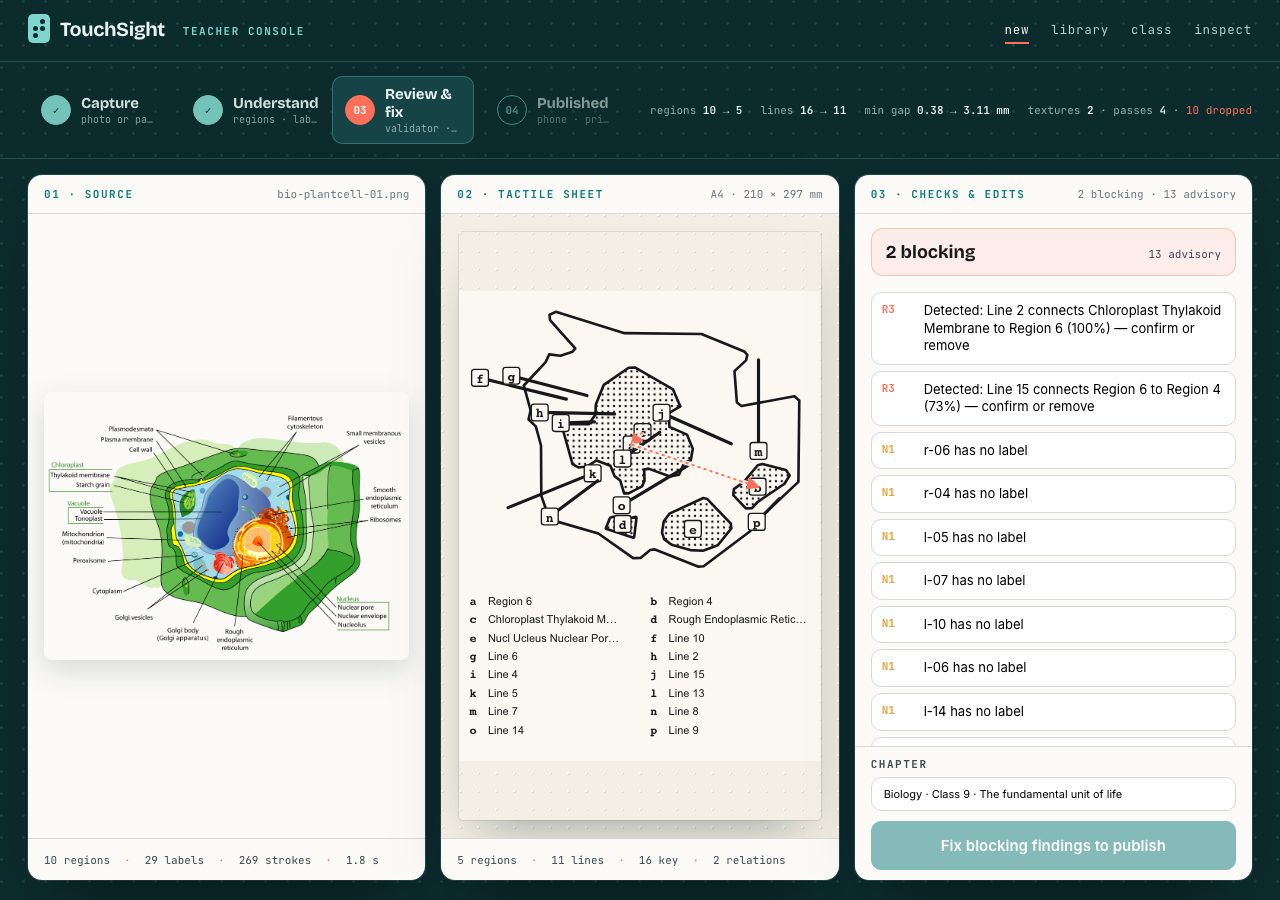
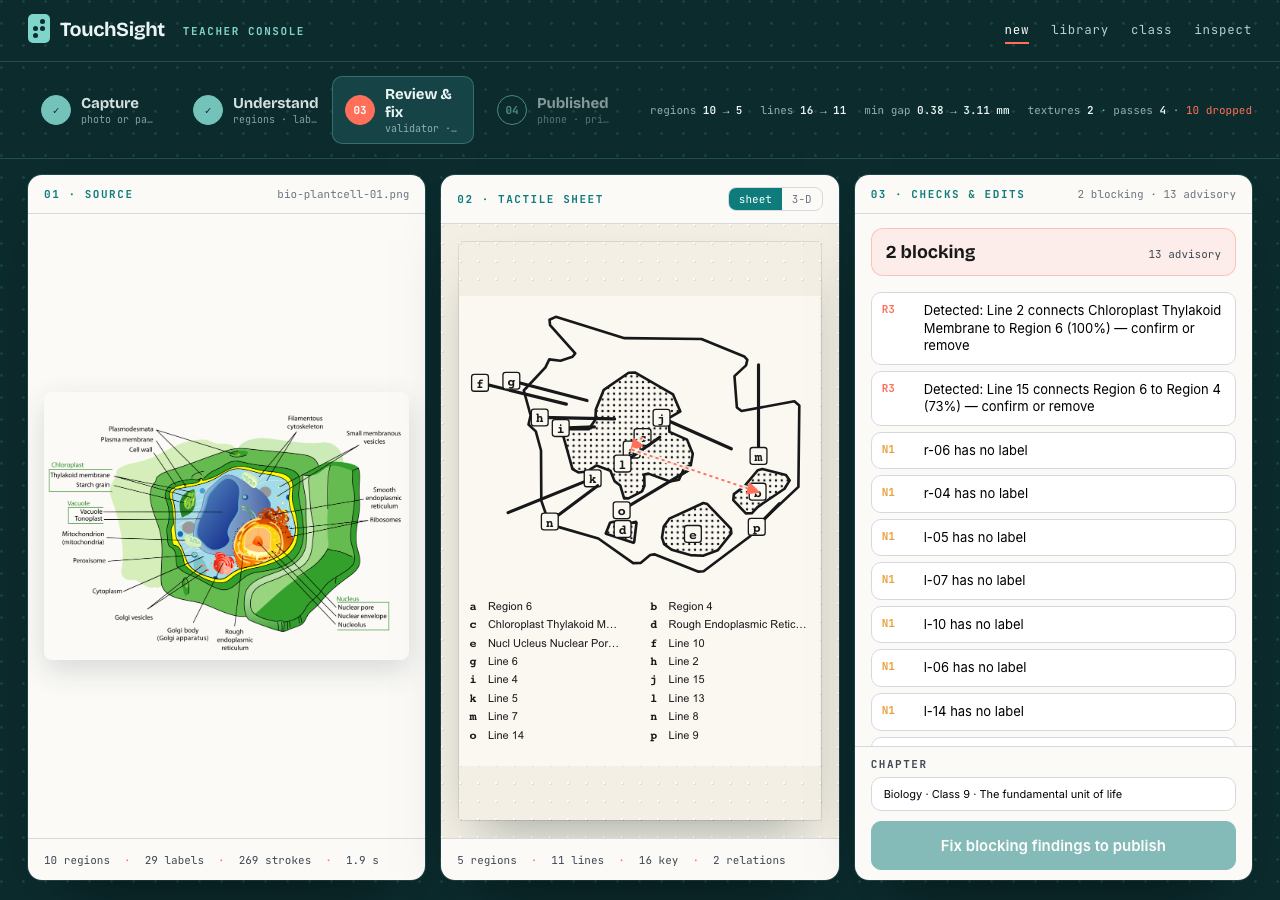
Relief viewer from the real STL

diff --git a/app/src/components/ReliefViewer.tsx b/app/src/components/ReliefViewer.tsx
@@ -1,0 +1,69 @@
+import { useEffect, useRef, useState } from 'react'
+import type { Tdm } from '../tdm/types'
+import { exportStl } from '../export'
+
+/**
+ * The relief as the printer gets it: the STL the exporter writes, lit from a low angle so dots and ridges throw
+ * shadows, turning slowly until the hand takes over. three.js loads only when this is on screen.
+ */
+export function ReliefViewer({ tdm, braille, className = '', autoRotate = true, caption = true }: { tdm: Tdm; braille?: Record<string, string>; className?: string; autoRotate?: boolean; caption?: boolean }) {
+  const host = useRef<HTMLDivElement>(null)
+  const [facts, setFacts] = useState<string>('')
+  const [ready, setReady] = useState(false)
+
+  useEffect(() => {
+    const el = host.current
+    if (!el) return
+    let alive = true, raf = 0, dispose = () => {}
+    ;(async () => {
+      const [THREE, { STLLoader }, { OrbitControls }] = await Promise.all([import('three'), import('three/examples/jsm/loaders/STLLoader.js'), import('three/examples/jsm/controls/OrbitControls.js')])
+      if (!alive) return
+      const { stl, facts: f } = exportStl(tdm, { braille })
+      const geo = new STLLoader().parse(stl)
+      geo.computeVertexNormals(); geo.computeBoundingBox()
+      const bb = geo.boundingBox!
+      const size = new THREE.Vector3(); bb.getSize(size)
+      const centre = new THREE.Vector3(); bb.getCenter(centre)
+      geo.translate(-centre.x, -centre.y, -bb.min.z)
+
+      const scene = new THREE.Scene()
+      const w = el.clientWidth || 600, h = el.clientHeight || 420
+      const cam = new THREE.PerspectiveCamera(32, w / h, 1, 2000)
+      const span = Math.max(size.x, size.y)
+      cam.position.set(span * 0.55, -span * 0.95, span * 0.9); cam.up.set(0, 0, 1); cam.lookAt(0, 0, 0)
+      const renderer = new THREE.WebGLRenderer({ antialias: true, alpha: true })
+      renderer.setPixelRatio(Math.min(2, window.devicePixelRatio || 1)); renderer.setSize(w, h); renderer.shadowMap.enabled = true
+      el.appendChild(renderer.domElement)
+
+      const mat = new THREE.MeshStandardMaterial({ color: 0xf6f2e9, roughness: 0.85, metalness: 0.0 })
+      const mesh = new THREE.Mesh(geo, mat); mesh.castShadow = true; mesh.receiveShadow = true
+      scene.add(mesh)
+      const table = new THREE.Mesh(new THREE.PlaneGeometry(span * 4, span * 4), new THREE.ShadowMaterial({ opacity: 0.35 }))
+      table.position.z = -0.01; table.receiveShadow = true; scene.add(table)
+      scene.add(new THREE.AmbientLight(0xffffff, 0.55))
+      const key = new THREE.DirectionalLight(0xfff4e0, 1.6); key.position.set(-span, -span * 0.4, span * 0.5); key.castShadow = true
+      key.shadow.mapSize.set(2048, 2048); const sc = key.shadow.camera as unknown as { left: number; right: number; top: number; bottom: number }; sc.left = -span; sc.right = span; sc.top = span; sc.bottom = -span
+      scene.add(key)
+      const rim = new THREE.DirectionalLight(0x7fd4cb, 0.5); rim.position.set(span, span, span * 0.3); scene.add(rim)
+
+      const controls = new OrbitControls(cam, renderer.domElement)
+      controls.enableDamping = true; controls.autoRotate = autoRotate; controls.autoRotateSpeed = 1.2; controls.maxPolarAngle = Math.PI * 0.49; controls.minDistance = span * 0.5; controls.maxDistance = span * 3
+      const onResize = () => { const w2 = el.clientWidth, h2 = el.clientHeight; if (!w2 || !h2) return; cam.aspect = w2 / h2; cam.updateProjectionMatrix(); renderer.setSize(w2, h2) }
+      const ro = new ResizeObserver(onResize); ro.observe(el)
+      const loop = () => { if (!alive) return; controls.update(); renderer.render(scene, cam); raf = requestAnimationFrame(loop) }
+      loop()
+      setFacts(`${f.bbox.w} × ${f.bbox.h} × ${f.bbox.d} mm · ${f.triangles.toLocaleString()} triangles · ${f.keyDomes} braille domes`)
+      setReady(true)
+      ;(window as unknown as { __tsRelief?: unknown }).__tsRelief = { triangles: f.triangles, size: [f.bbox.w, f.bbox.h, f.bbox.d] }
+      dispose = () => { ro.disconnect(); controls.dispose(); renderer.dispose(); geo.dispose(); mat.dispose(); renderer.domElement.remove() }
+    })().catch(() => setFacts('3-D preview unavailable here'))
+    return () => { alive = false; cancelAnimationFrame(raf); dispose() }
+  }, [tdm, braille, autoRotate])
+
+  return (
+    <div className={`rv ${ready ? 'ready' : ''} ${className}`}>
+      <div className="rv-stage" ref={host} />
+      {caption && <div className="rv-cap mono"><span>relief as it prints · drag to turn</span><span>{facts || 'building the relief…'}</span></div>}
+    </div>
+  )
+}

diff --git a/app/src/routes/landing/Landing.tsx b/app/src/routes/landing/Landing.tsx
@@ -5,7 +5,7 @@ import { ValidatorReplay, useDraftFacts } from './ValidatorReplay'
 import { BrailleLine, Count } from './BrailleLine'
 import { useReveal, useActiveSection } from './useReveal'
 import { BrailleCells } from '../../components/BrailleCells'
-import { Relief3D } from './Relief3D'
+import { ReliefViewer } from '../../components/ReliefViewer'
 import type { Tdm } from '../../tdm/types'
 import heartJson from '../../samples/sample-heart.tdm.json'
 import heartPhoto from '../../opener/heart.png'
@@ -34,7 +34,6 @@ function untilt(e: React.PointerEvent<HTMLElement>) { e.currentTarget.style.setP
 export function Landing() {
   const root = useRef<HTMLElement>(null)
   const [active, setActive] = useState('top')
-  const [sheetFocus, setSheetFocus] = useState<string | null>(null)
   const facts = useDraftFacts()
   useReveal(root)
   useActiveSection(IDS, useCallback((id: string) => setActive(id), []))
@@ -71,7 +70,7 @@ export function Landing() {
         </div>
         <div className="ld-hero-sheet" data-rv style={{ ['--d' as string]: '.12s' }}>
           <div className="ld-sheet-label mono"><span>the student app · live</span><span>{heart.regions.length} parts · {textures} textures · {heart.key.length}-entry key</span></div>
-          <TouchSheet tdm={heart} onFocus={setSheetFocus} />
+          <TouchSheet tdm={heart} />
         </div>
       </section>
 
@@ -92,7 +91,7 @@ export function Landing() {
             <li><b>validate</b><span>{facts.findings.length} findings → 0</span></li>
             <li><b>teacher</b><span>confirms · publishes</span></li>
           </ol>
-          <figure className="ld-cmp relief" data-rv style={{ ['--d' as string]: '.18s' }}><Relief3D tdm={heart} highlight={sheetFocus ? [sheetFocus] : []} /><figcaption><span className="mono">after</span><b>The tactile relief</b><span className="mono">{heart.regions.length} regions · {textures} textures · braille key · A4 · prints as STL</span></figcaption></figure>
+          <figure className="ld-cmp relief" data-rv style={{ ['--d' as string]: '.18s' }}><div className="ld-rv"><ReliefViewer tdm={heart} caption={false} /></div><figcaption><span className="mono">after</span><b>The tactile relief, as it prints</b><span className="mono">{heart.regions.length} regions · {textures} textures · braille domes · drag to turn</span></figcaption></figure>
         </div>
       </section>
 

diff --git a/app/src/routes/teacher/Workbench.tsx b/app/src/routes/teacher/Workbench.tsx
@@ -8,6 +8,7 @@ import { TdmCanvas, TEXTURE_LABEL } from '../../components/TdmCanvas'
 import { TEXTURES, RELATION_KINDS, type Tdm, type ValidationFinding, type TdmRelation } from '../../tdm/types'
 import { getDiagram, saveDiagram, saveImage, getImage } from '../../store/db'
 import { ExportPanel } from '../../components/ExportPanel'
+import { ReliefViewer } from '../../components/ReliefViewer'
 import { area } from '../../tdm/geometry'
 import { classroom, teacherRoom } from '../../class/classroom'
 
@@ -31,6 +32,7 @@ export function Workbench() {
   const [imgUrl, setImgUrl] = useState<string | null>(null)
   const [found, setFound] = useState<{ regions: number; labels: number; strokes: number; ms: number } | null>(null)
   const [phones, setPhones] = useState(0)
+  const [view3d, setView3d] = useState(false)
   useEffect(() => { if (step !== 'published') return; const t = setInterval(() => setPhones(classroom.phones), 600); return () => clearInterval(t) }, [step])
   const fileRef = useRef<HTMLInputElement>(null)
 
@@ -160,9 +162,9 @@ export function Workbench() {
 
         {/* 02 · sheet */}
         <section className="wb-pane wb-sheet">
-          <header className="wb-pane-h"><span className="kicker">02 · Tactile sheet</span><span className="mono">A4 · 210 × 297 mm</span></header>
-          <div className="wb-pane-b wb-canvas-body">
-            {tdm && step !== 'understand' ? (
+          <header className="wb-pane-h"><span className="kicker">02 · {view3d ? 'Relief' : 'Tactile sheet'}</span>{tdm && step !== 'understand' ? <span className="wb-seg mono"><button className={!view3d ? 'on' : ''} onClick={() => setView3d(false)}>sheet</button><button className={view3d ? 'on' : ''} onClick={() => setView3d(true)}>3-D</button></span> : <span className="mono">A4 · 210 × 297 mm</span>}</header>
+          <div className={`wb-pane-b wb-canvas-body ${view3d ? 'relief' : ''}`}>
+            {tdm && step !== 'understand' && view3d ? <ReliefViewer tdm={tdm} /> : tdm && step !== 'understand' ? (
               <TdmCanvas tdm={tdm} selected={selected} highlight={highlight} onSelect={onPick} showKey showRelations paper="#fbf8f1" marker={blockingSel} />
             ) : (
               <div className="wb-ghost-sheet"><span className="mono">{step === 'understand' ? (stage || 'redesigning for a fingertip') + '…' : 'the redesigned sheet appears here'}</span></div>

diff --git a/app/src/routes/teacher/teacher.css b/app/src/routes/teacher/teacher.css
@@ -164,3 +164,11 @@
 .cl-bars li { display: grid; grid-template-columns: 120px 1fr 44px; gap: 8px; align-items: center; font-size: 12px; } .cl-bars li span { white-space: nowrap; overflow: hidden; text-overflow: ellipsis; }
 .cl-bars li i { display: block; height: 8px; border-radius: 4px; background: var(--teal); opacity: .85; transition: width .4s; } .cl-bars li em { font-style: normal; font-size: 10.5px; color: var(--muted); text-align: right; }
 @media (max-width: 1100px) { .cl { height: auto; } }
+
+/* relief viewer */
+.wb-seg { display: inline-flex; border: 1px solid var(--line); border-radius: 8px; overflow: hidden; }
+.wb-seg button { border: 0; background: transparent; padding: 4px 10px; font: inherit; font-size: 11px; color: var(--muted); cursor: pointer; } .wb-seg button.on { background: var(--teal); color: #fff; }
+.wb-canvas-body.relief { padding: 0; place-items: stretch; background: radial-gradient(120% 90% at 50% 30%, #1a4a4c, #0c2b2d); }
+.rv { display: grid; grid-template-rows: minmax(0, 1fr) auto; height: 100%; min-height: 0; }
+.rv-stage { min-height: 0; cursor: grab; } .rv-stage canvas { display: block; }
+.rv-cap { display: flex; justify-content: space-between; gap: 12px; padding: 8px 14px; font-size: 10.5px; color: #8fb0ae; border-top: 1px solid rgba(127,212,203,.2); background: rgba(12,43,45,.6); }

diff --git a/app/src/routes/landing/landing.css b/app/src/routes/landing/landing.css
@@ -171,3 +171,7 @@
   .ts-say { grid-template-columns: 1fr; } .ts-lang { justify-self: start; } .ts-key { grid-template-columns: 1fr 1fr; } .ts-key-row { border-bottom: 1px solid var(--line); }
   .ld-stats { grid-template-columns: 1fr; } .ld-stats > div { border-right: 0; border-bottom: 1px solid var(--line); }
 }
+
+.ld-rv { min-height: 460px; height: 100%; background: radial-gradient(120% 90% at 50% 30%, #1a4a4c, #0c2b2d); border-radius: 14px; overflow: hidden; }
+.ld-rv .rv { height: 100%; min-height: 460px; } .ld-rv .rv-stage { min-height: 460px; cursor: grab; }
+.ld-paper .ld-cmp.relief { background: transparent; }
